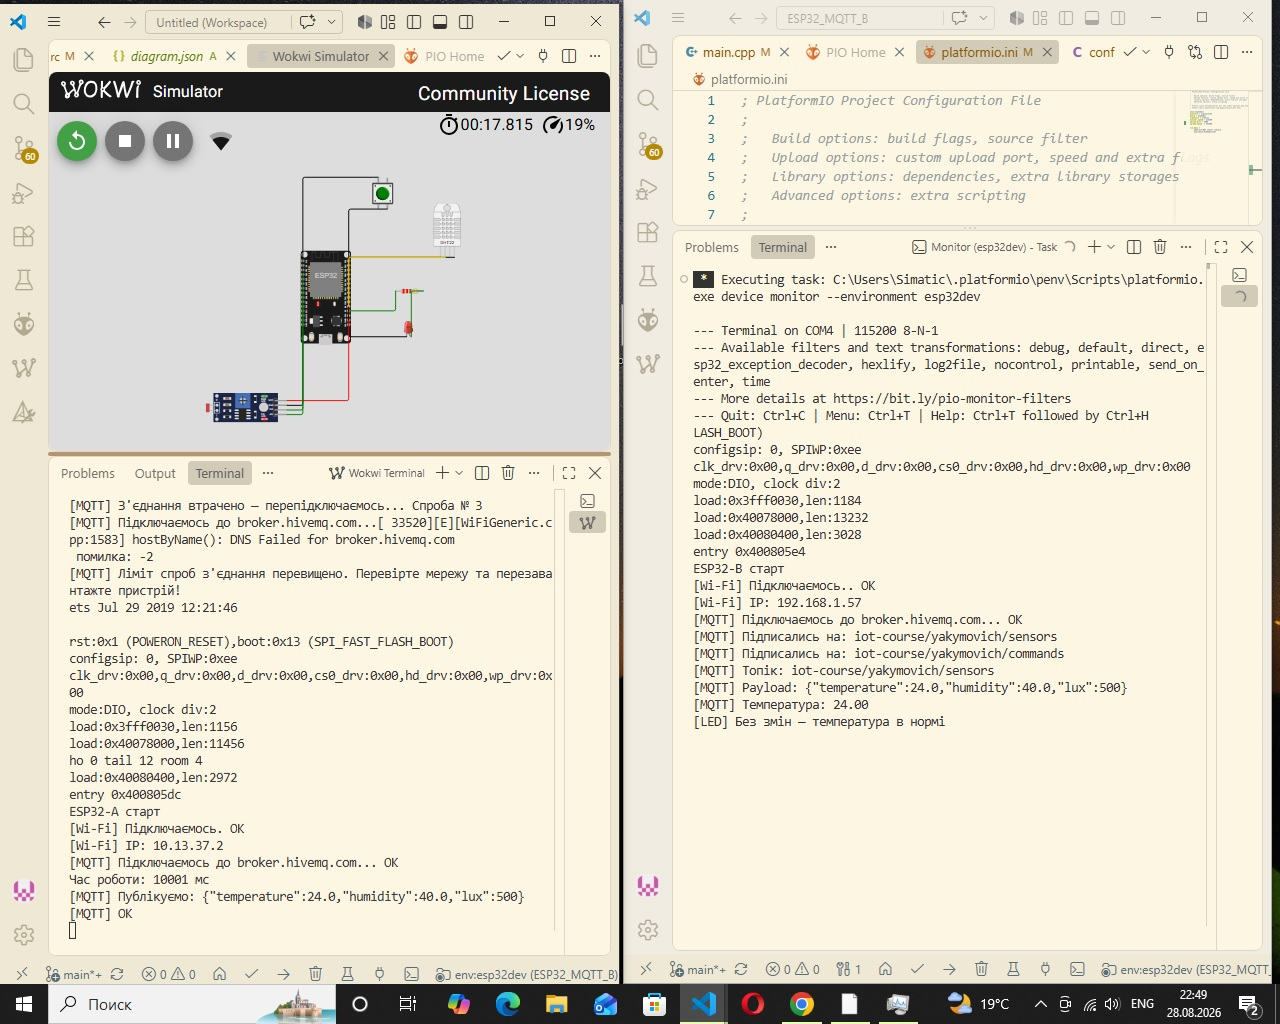
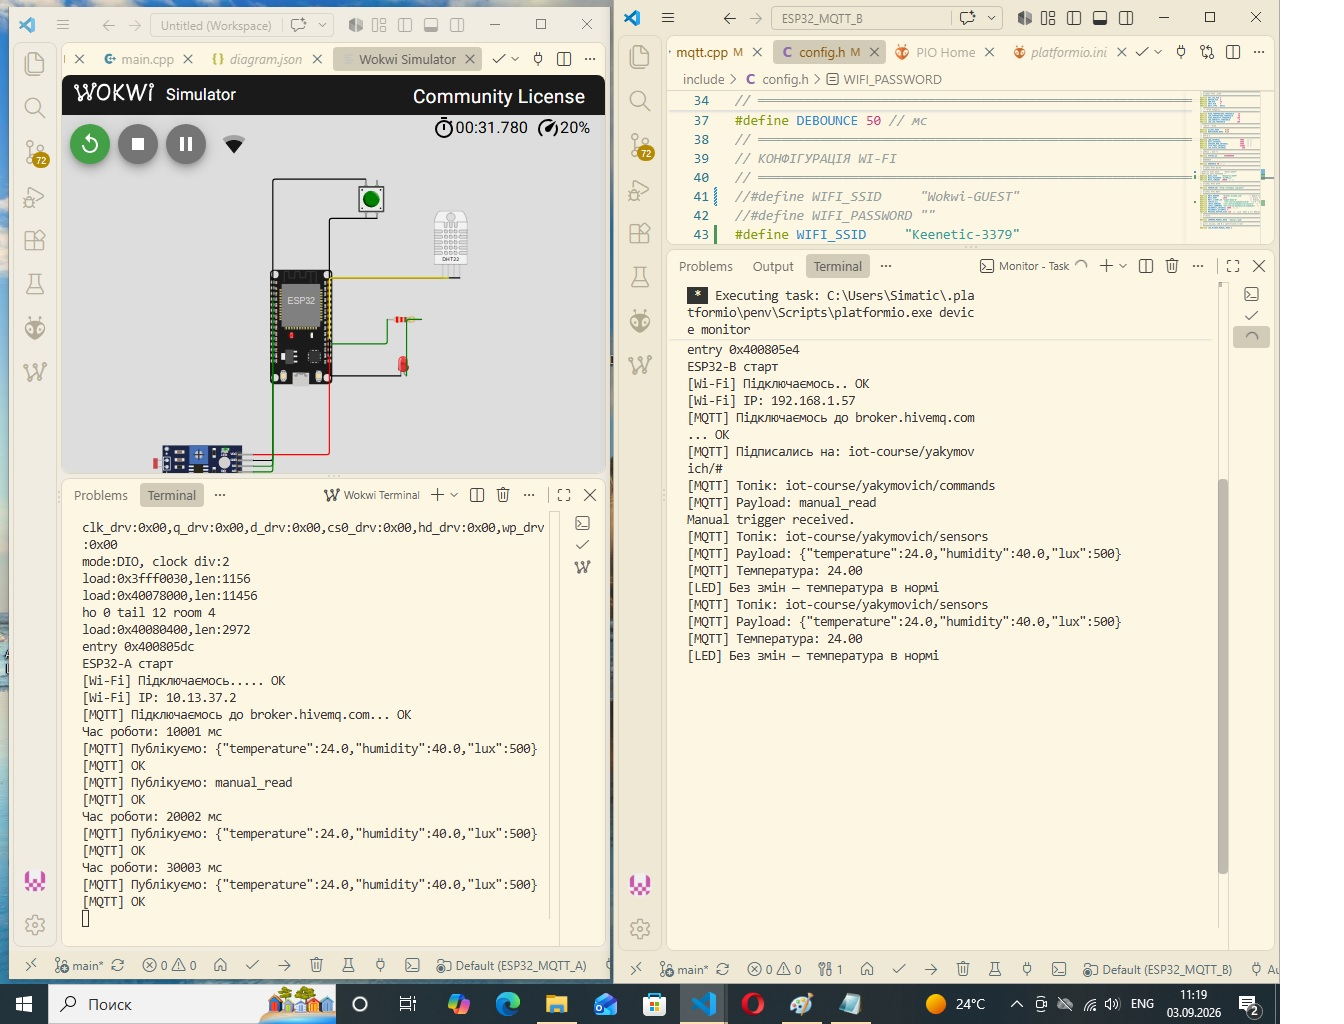
Commit 17

Changed region(s): [[0.0, 0.0, 1.0, 1.0]]

diff --git a/HomeTask4/ESP32_MQTT_B/include/config.h b/HomeTask4/ESP32_MQTT_B/include/config.h
@@ -38,10 +38,10 @@
 // ═══════════════════════════════════════════════════════════
 // КОНФІГУРАЦІЯ WI-FI
 // ═══════════════════════════════════════════════════════════
-#define WIFI_SSID     "Wokwi-GUEST"
-#define WIFI_PASSWORD ""
-//#define WIFI_SSID     "Keenetic-3379"
+//#define WIFI_SSID     "Wokwi-GUEST"
 //#define WIFI_PASSWORD ""
+#define WIFI_SSID     "Keenetic-3379"
+#define WIFI_PASSWORD "Ej7WKjis"
 #define WIFI_TIMEOUT  10000  // мс
 // ═══════════════════════════════════════════════════════════
 // КОНФІГУРАЦІЯ HTTP
@@ -53,6 +53,7 @@
 #define MQTT_BROKER    "broker.hivemq.com"       // публічний брокер HiveMQ
 #define MQTT_PORT      1883                       // plain TCP, без TLS
 #define MQTT_CLIENT_ID "esp32-demo-b"             // унікальний — не як у ESP32-A!
+#define TOPICS_ALL      "iot-course/yakymovich/#"  //Усі топіки
 #define TOPIC_SENSORS  "iot-course/yakymovich/sensors"  // топік на який підписуємось
 #define TOPIC_COMMANDS "iot-course/yakymovich/commands"  // топік на який підписуємось
 #define RECONNECT_INTERVAL 5000  // мс

diff --git a/HomeTask4/ESP32_MQTT_A/src/mqtt.cpp b/HomeTask4/ESP32_MQTT_A/src/mqtt.cpp
@@ -36,13 +36,10 @@ bool connectMQTTandSubscribe(uint8_t qos) {
         // Підписуємось всередині connectMQTT — не в setup()
         // Бо Clean Session = true скидає підписки при кожному відключенні
         // Так підписка автоматично відновлюється після reconnect
-        mqttClient.subscribe(TOPIC_SENSORS, qos);
+        mqttClient.subscribe(TOPICS_ALL, qos);
         Serial.print("[MQTT] Підписались на: ");
-        Serial.println(TOPIC_SENSORS);
-
-        mqttClient.subscribe(TOPIC_COMMANDS, qos);
-        Serial.print("[MQTT] Підписались на: ");
-        Serial.println(TOPIC_COMMANDS);
+        Serial.println(TOPICS_ALL);
+       
         return true;
     }
     // mqttClient.state() повертає код помилки:

diff --git a/HomeTask4/ESP32_MQTT_B/src/mqtt.cpp b/HomeTask4/ESP32_MQTT_B/src/mqtt.cpp
@@ -34,13 +34,10 @@ bool connectMQTTandSubscribe(uint8_t qos)  {
         // Підписуємось всередині connectMQTT — не в setup()
         // Бо Clean Session = true скидає підписки при кожному відключенні
         // Так підписка автоматично відновлюється після reconnect
-        mqttClient.subscribe(TOPIC_SENSORS, qos);
+        mqttClient.subscribe(TOPICS_ALL, qos);
         Serial.print("[MQTT] Підписались на: ");
-        Serial.println(TOPIC_SENSORS);
-
-        mqttClient.subscribe(TOPIC_COMMANDS, qos);
-        Serial.print("[MQTT] Підписались на: ");
-        Serial.println(TOPIC_COMMANDS);
+        Serial.println(TOPICS_ALL);
+       
         return true;
     }
 

diff --git a/HomeTask4/ESP32_MQTT_A/include/config.h b/HomeTask4/ESP32_MQTT_A/include/config.h
@@ -50,6 +50,7 @@
 #define MQTT_BROKER    "broker.hivemq.com"       // публічний брокер HiveMQ
 #define MQTT_PORT      1883                       // plain TCP, без TLS
 #define MQTT_CLIENT_ID "esp32-demo-a"             // унікальний — не як у ESP32-B!
+#define TOPICS_ALL     "iot-course/yakymovich/#"  //Усі топіки
 #define TOPIC_SENSORS  "iot-course/yakymovich/sensors"    // топік для публікації сенсорів
 #define TOPIC_COMMANDS "iot-course/yakymovich/commands"  //       для публікації команд
 #define RECONNECT_INTERVAL 5000  // мс

diff --git a/HomeTask4/README.md b/HomeTask4/README.md
@@ -10,9 +10,8 @@ Upd:
         iot-course/yakymovich/commands 
                
 
-  ESP32-B Підписується но топіки
-        iot-course/yakymovich/sensors
-        iot-course/yakymovich/commands
+  ESP32-B Підписується на топіки
+        iot-course/yakymovich/#
         із QoS = 1,  повідомлення обробляються callback-функцією onMessage
         із повідомлення береться тільки температура,функція керує світлодіодом, 
         змінюючи його стан у залежності від температури.
